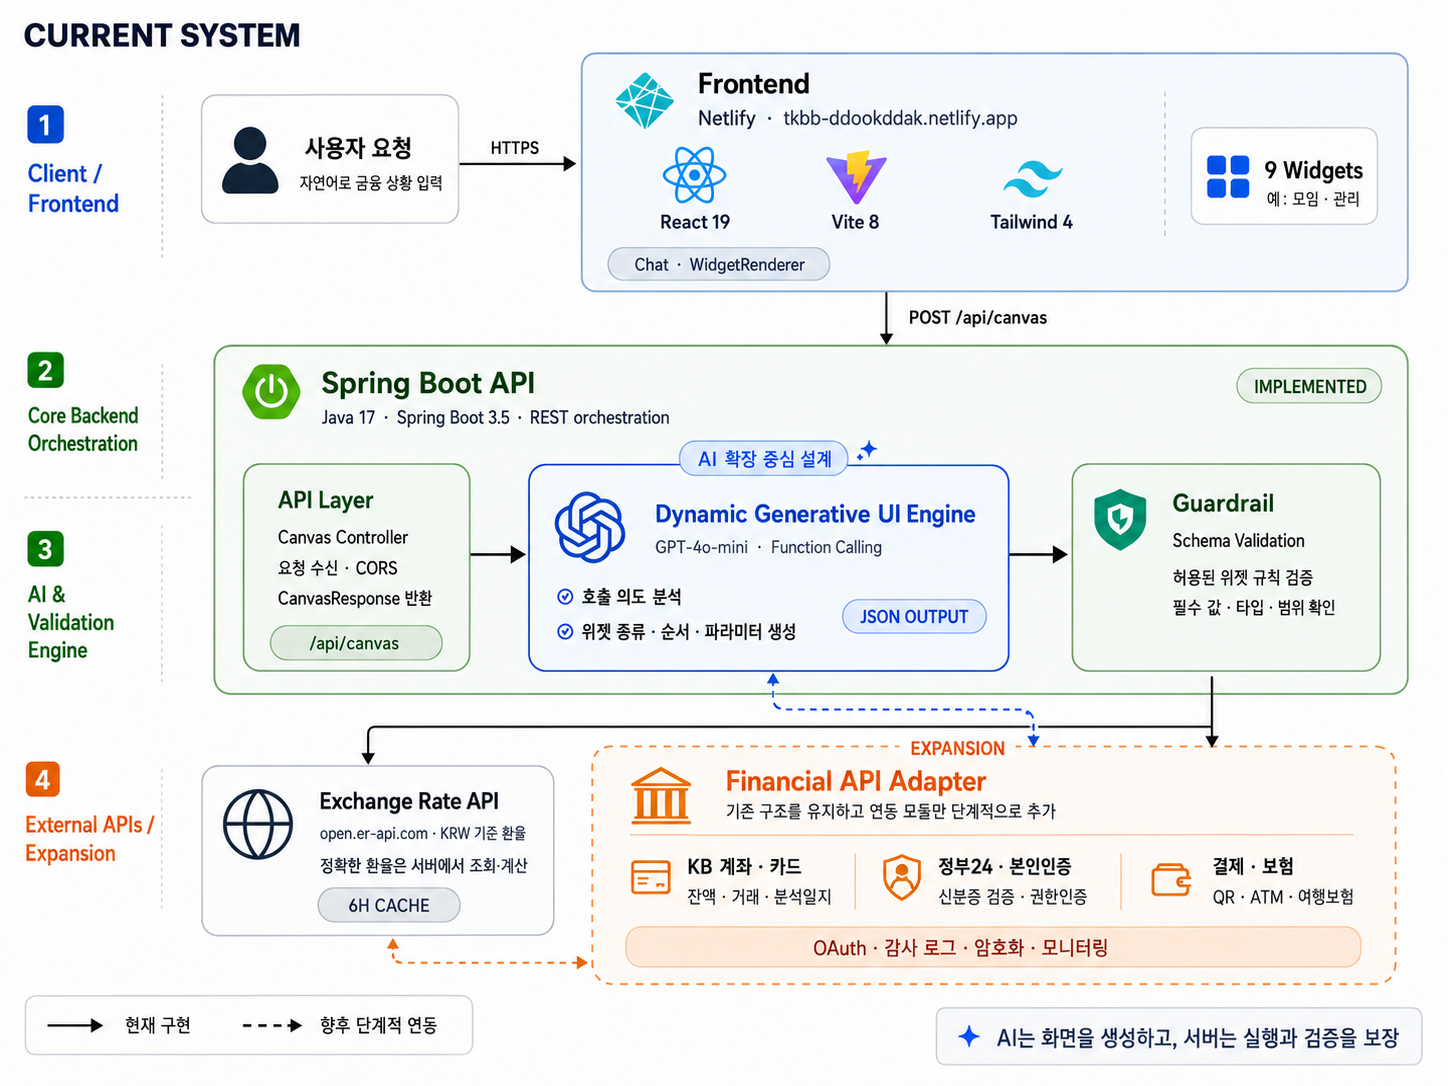
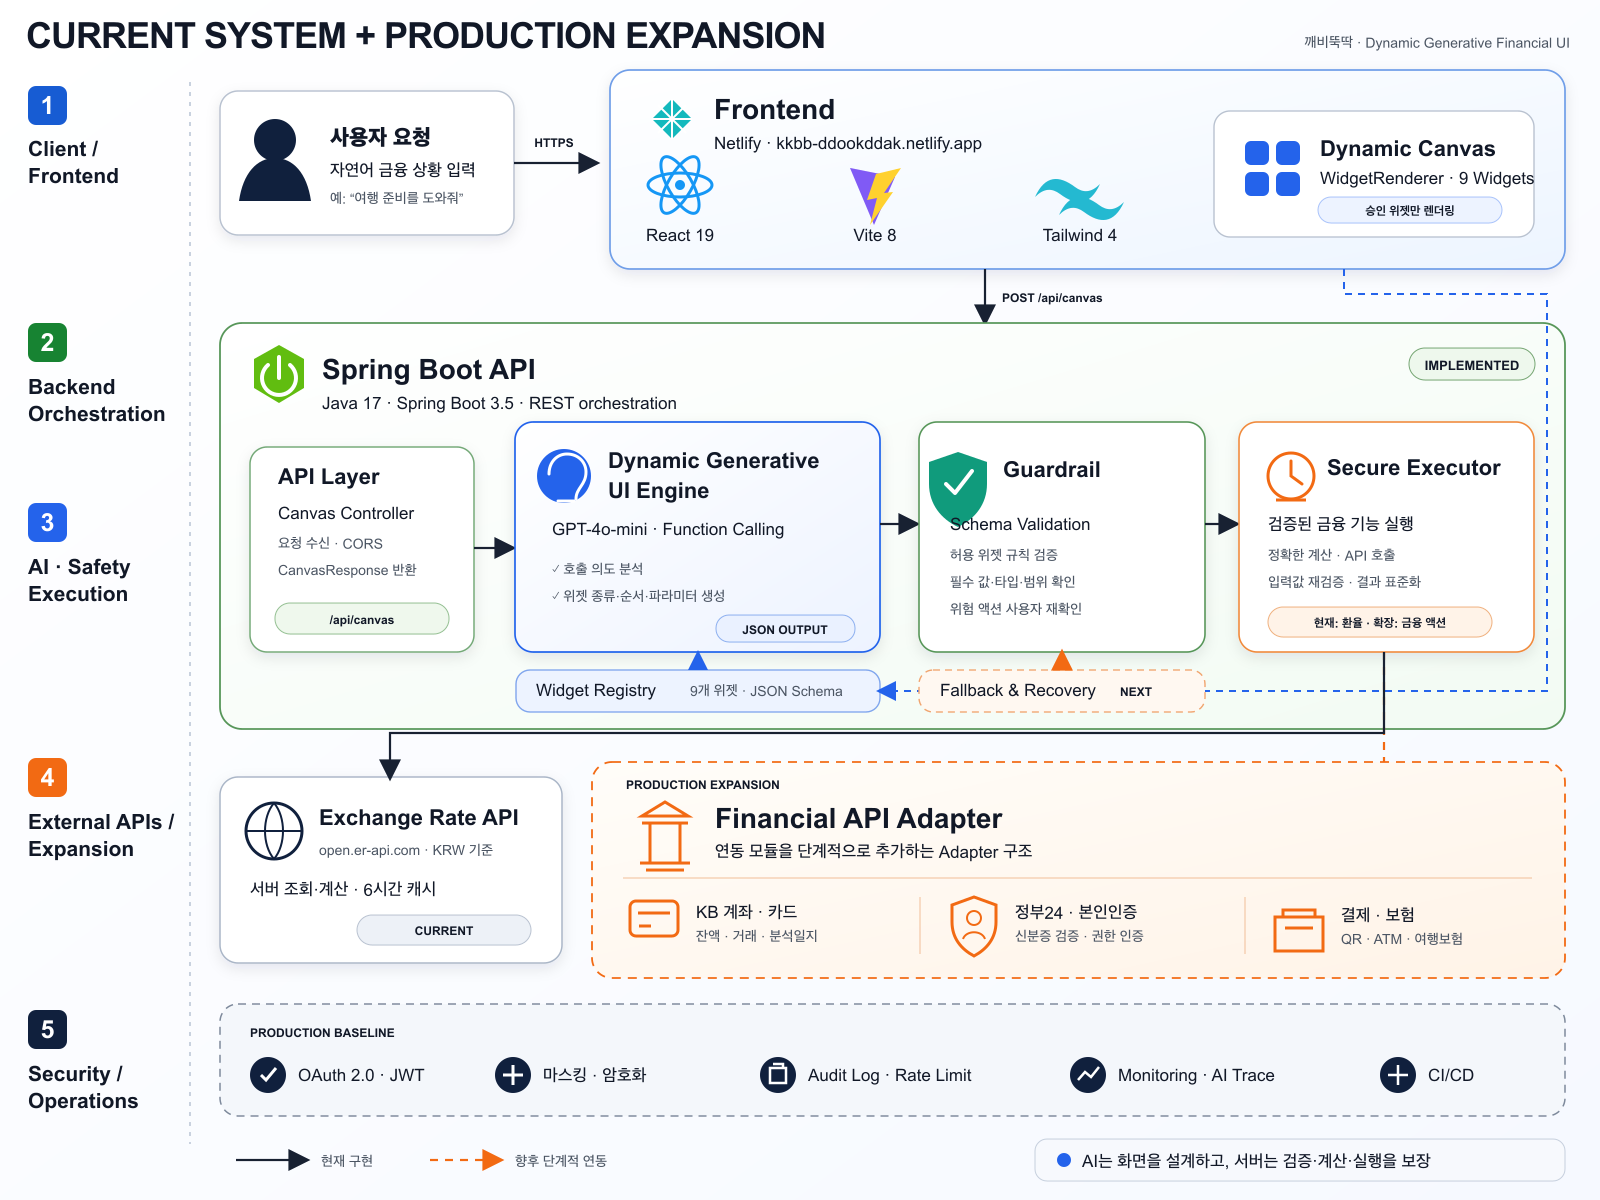
docs: expand system architecture details

diff --git a/README.md b/README.md
@@ -96,9 +96,13 @@
 
 AI는 **어떤 화면이 필요한지** 생성하고, 서버는 **정확한 데이터와 실행 가능성**을 보장합니다.
 
-- AI 담당: 복합 의도 분석, 위젯 선택, 위젯 순서 및 파라미터 생성
-- 서버 담당: 허용 위젯 검증, 실시간 환율 조회, 데이터 계산, API 응답 구성
-- 사용자 담당: 실제 금융 거래 전 최종 확인 및 승인
+- **Dynamic UI Engine**: 복합 의도를 분석해 위젯 종류·순서·파라미터를 JSON으로 생성
+- **Widget Registry & Guardrail**: 승인된 9개 위젯과 JSON Schema를 기준으로 필수 값·타입·범위를 검증
+- **Secure Executor**: AI가 아닌 서버가 환율·수수료 계산, 입력값 재검증, 외부 API 호출과 결과 표준화를 담당
+- **Fallback & Recovery**: JSON 파싱 실패, 미지원 요청, 외부 API 장애 시 재시도 또는 안전한 기본 화면으로 복구
+- **Financial API Adapter**: 현재 환율 API에서 KB 계좌·카드, 본인인증, 공공기관, 결제·보험 API로 단계적 확장
+- **Security & Operations**: OAuth 2.0, 개인정보 마스킹, 암호화, 감사 로그, Rate Limit, AI Trace와 CI/CD 적용
+- **Human Confirmation**: 송금·결제·카드 정지 등 실제 금융 거래는 사용자 최종 확인 후 실행
 
 ## 기술적 특징
 
